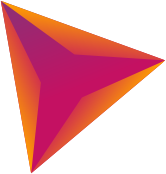
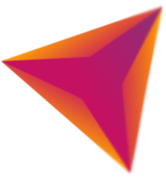
edits article styles + changed decor images

diff --git a/index.html b/index.html
@@ -131,7 +131,7 @@
                     <div class="image-section">
                         <div class="image-box" style="background-image: url('images/content/img_1.jpg')"></div>
                         <img class="small-img" src="images/content/img_2.jpg" data-parallax='{"y": -80, "smoothness": 10}' alt="">
-                        <img class="decor-top" src="images/decor/img_1(blur).png" data-parallax='{"y": -40, "smoothness": 20}' alt="">
+                        <img class="decor-top" src="images/decor/img_1.png" data-parallax='{"y": -40, "smoothness": 20}' alt="">
                         <img class="decor-bottom" src="images/decor/img_2.png" data-parallax='{"y": -120, "smoothness": 30}' alt="">
                     </div>
                 </div>
@@ -222,7 +222,7 @@
                     <div class="image-section">
                         <div class="image-box" style="background-image: url('images/content/img_7.jpg')"></div>
                         <img class="small-img" src="images/content/img_8.jpg" data-parallax='{"y": -80, "smoothness": 10}' alt="">
-                        <img class="decor-top" src="images/decor/img_3(blur).png" data-parallax='{"y": -40, "smoothness": 20}' alt="">
+                        <img class="decor-top" src="images/decor/img_3.png" data-parallax='{"y": -40, "smoothness": 20}' alt="">
                         <img class="decor-bottom" src="images/decor/img_4.png" data-parallax='{"y": -120, "smoothness": 30}' alt="">
                     </div>
                 </div>
@@ -314,7 +314,7 @@
                         <div class="image-box" style="background-image: url('images/content/img_13.jpg')"></div>
                         <img class="small-img" src="images/content/img_14.jpg" data-parallax='{"y": -80, "smoothness": 10}' alt="">
                         <img class="decor-top" src="images/decor/img_2.png" data-parallax='{"y": -40, "smoothness": 20}' alt="">
-                        <img class="decor-bottom" src="images/decor/img_1(blur).png" data-parallax='{"y": -120, "smoothness": 30}' alt="">
+                        <img class="decor-bottom" src="images/decor/img_1.png" data-parallax='{"y": -120, "smoothness": 30}' alt="">
                     </div>
                 </div>
                 <div class="products">

diff --git a/styles/responsive.css b/styles/responsive.css
@@ -680,12 +680,14 @@
         margin-right: 30px;
     }
 
+    .entry-holder .align-center,
     .entry-holder .not-align {
         width: calc(100% + 50px);
         margin-left: -25px;
         margin-right: -25px;
     }
 
+    .entry-holder .iframe-holder,
     .entry-holder blockquote,
     .entry-holder img {
         margin-bottom: 45px;
@@ -1100,6 +1102,7 @@
         margin-right: 20px;
     }
 
+    .entry-holder .iframe-holder,
     .entry-holder blockquote,
     .entry-holder img {
         margin-bottom: 35px;
@@ -1109,10 +1112,12 @@
         font-size: 18px;
     }
 
+    .entry-holder .entry-content *:not(blockquote) + .iframe-holder,
     .entry-holder .entry-content *:not(blockquote) + img {
         margin-top: 15px;
     }
 
+    .entry-holder .align-center,
     .entry-holder .not-align {
         width: 100%;
         margin-left: 0;
@@ -1581,6 +1586,7 @@
         margin-bottom: 5px;
     }
 
+    .entry-holder .entry-content *:not(blockquote) + .iframe-holder,
     .entry-holder .entry-content *:not(blockquote) + img {
         margin-top: 10px;
     }
@@ -1594,6 +1600,7 @@
         margin: 35px 0;
     }
 
+    .entry-holder .iframe-holder,
     .entry-holder img {
         margin-bottom: 25px;
     }

diff --git a/styles/main.css b/styles/main.css
@@ -3247,11 +3247,31 @@ body:not(.touch-device) .posts-list .post:hover:before {
     margin-left: 50px;
 }
 
+.entry-holder .align-center,
 .entry-holder .not-align {
     width: 120%;
     max-width: inherit;
     margin-left: -10%;
     margin-right: -10%;
+}
+
+.entry-holder .iframe-holder {
+    position: relative;
+    padding-bottom: 56%;
+    overflow: hidden;
+}
+
+.entry-holder .iframe-holder iframe {
+    position: absolute;
+    z-index: 1;
+    top: 50%;
+    left: 50%;
+    height: auto;
+    width: auto;
+    min-height: 100%;
+    min-width: 100%;
+    -webkit-transform: translate(-50%, -50%);
+    transform: translate(-50%, -50%);
 }
 
 .entry-holder blockquote {
@@ -3265,11 +3285,13 @@ body:not(.touch-device) .posts-list .post:hover:before {
     margin: 0;
 }
 
+.entry-holder .iframe-holder,
 .entry-holder blockquote,
 .entry-holder img {
     margin-bottom: 60px;
 }
 
+.entry-holder .entry-content *:not(blockquote) + .iframe-holder,
 .entry-holder .entry-content *:not(blockquote) + img {
     margin-top: 30px;
 }
